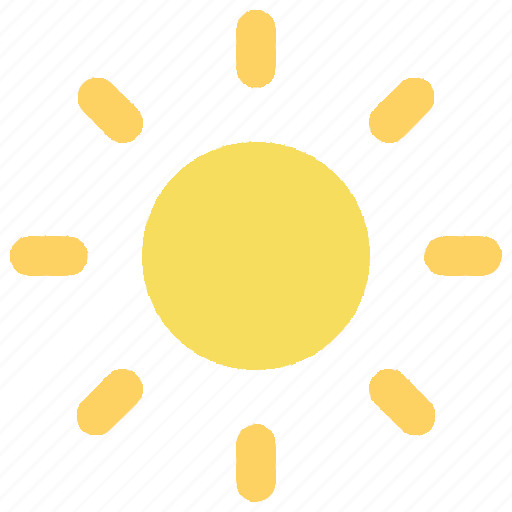
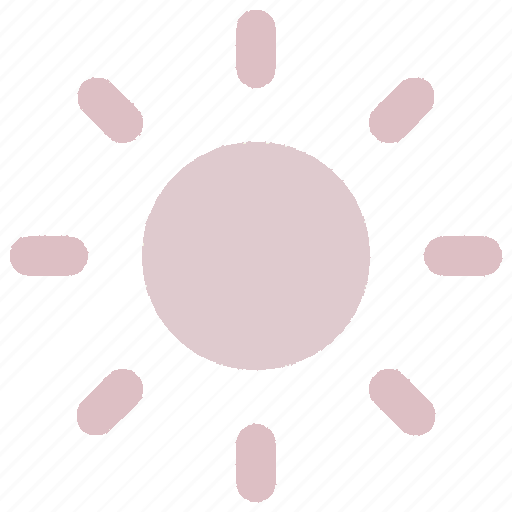
better cv print + updates

diff --git a/client/src/page/about.jsx b/client/src/page/about.jsx
@@ -1,9 +1,8 @@
 import { ManageBody } from '../functions/manageBody';
-import { ManageThemes } from '../functions/manageThemes';
-import { animateApparition } from '../functions/apparition';
-import Main from './components/main';
+import { animateApparition } from '../functions/appearence';
 import { NavLink } from 'react-router-dom';
-import { useEffect, useState } from 'react';
+import { useContext, useEffect } from 'react';
+import themeContext from '../functions/themeContext';
 
 import '../asset/css/about/style.scss';
 import '../asset/css/about/dark-style.scss';
@@ -24,12 +23,7 @@ const About = () => {
         document.title = 'À propos';
     });
 
-    const [privacyImgState, setPrivicyImgState] = useState(privacyImg);
-    const [aboutImgState, setAboutImgState] = useState(aboutImg);
-
-    const states = [setPrivicyImgState, setAboutImgState];
-    const images = [privacyImg, aboutImg];
-    const darkImages = [darkPrivacyImg, darkAboutImg];
+    const { isDarkTheme } = useContext(themeContext);
 
     return (
             <div className="main-container animate">
@@ -38,7 +32,7 @@ const About = () => {
                     <div className="title-container title-container-first-child">
                             <h1 className="title title1">• Politique de confidentialité</h1>
                             <div className="bar first-bar animate"></div>
-                            <img src={ privacyImgState } alt="privacy" draggable="false" />
+                            <img src={ isDarkTheme ? darkPrivacyImg : privacyImg } alt="privacy" draggable="false" />
                         </div>
                         <p className="text-content">Votre vie privée est importante pour moi. La politique d'Adobe PortFolio est de respecter votre vie privée et de se conformer à toutes les lois et réglementations applicables concernant les informations personnelles que je pourrais collecter à votre sujet, y compris sur mon site Web, par l'adresse <NavLink to={"/"}><strong>https://rayanemerlin.com/</strong></NavLink><br/>Cette politique est en vigueur depuis le 7 février 2023 et a été mise à jour pour la dernière fois le 7 février 2023.</p>
                         <h2 className="subtitle">- Me contacter</h2>
@@ -58,7 +52,7 @@ const About = () => {
                     <div className="title-container">
                             <h1 className="title title2">• À propos</h1>
                             <div className="bar second-bar animate"></div>
-                            <img src={ aboutImgState } alt="about_icon" draggable="false" />
+                            <img src={ isDarkTheme ? darkAboutImg : aboutImg } alt="about_icon" draggable="false" />
                         </div>
                         <p className="text-content">Ce site a été entièrement codé par mes soins dans le but de présenter mon parcours, mes projets et mes compétences. <br/> De même, tous les projets présentés ont pu être codés en partie ou entièrement par mes soins. <br/> Le logo a été inspiré du logo officiel d'Adobe Photoshop (plus généralement de l"ensemble des logos de la suite Adobe). Le loader a lui été inspiré du chargement officiel d'Adobe Photoshop 2022.</p>
                     </div>

diff --git a/client/src/page/home.jsx b/client/src/page/home.jsx
@@ -1,13 +1,11 @@
 import { useContext, useEffect, useState, useRef } from 'react';
-import { useReactToPrint } from 'react-to-print';
 import themeContext from '../functions/themeContext';
 
 import { ManageBody } from '../functions/manageBody';
-import { ManageThemes } from '../functions/manageThemes';
 
 import { Project } from '../objects/project';
 import { SchoolCompetence } from '../objects/school_competence';
-import { animateApparition } from '../functions/apparition';
+import { animateApparition } from '../functions/appearence';
 import { ScrollProjects } from '../functions/scrollProjects';
 import { animateCards } from '../functions/3dEffectCard';
 
@@ -46,7 +44,7 @@ const Home = () => {
 
     useEffect(() => { animateApparition() }, []);
 
-    const { isDarkTheme, setIsDarkTheme } = useContext(themeContext);
+    const { isDarkTheme } = useContext(themeContext);
 
     useEffect(() => {
         document.title = 'Accueil';
@@ -108,6 +106,12 @@ const Home = () => {
 
     let frameCvRef = useRef(null);
 
+    let cvPdfIframe = useRef(null);
+    const handlePrintPdf = () => {
+      cvPdfIframe.current.contentWindow.focus();
+      cvPdfIframe.current.contentWindow.print();
+    }
+
     var [cvVisibilityChanged, setCvVisibilityChanged] = useState(false);
     useEffect(() => {
       if (cvContainerIsVisible) {
@@ -130,10 +134,6 @@ const Home = () => {
     }, []);
 
     var [isCvInformationsVisible, setCvInformationsVisible] = useState(false);
-
-    const handlePrintPdf = () => {
-      window.open(cvPdf).print();
-    }
 
     /* let cvImgRef = useRef(null);
     const handlePrintPdf = useReactToPrint({
@@ -176,6 +176,8 @@ const Home = () => {
     return (
       <>
               <article id="main">
+                  {/* On met le CV dans le rendu, caché dans l'HTML pour s'en servir en cas d'impression */}
+                  <iframe ref={cvPdfIframe} src={cvPdf} className="hidden"></iframe>
                   <div className="title t1" id="firstmid">
                     <p>Mes projets</p>
                   </div>

diff --git a/client/src/page/components/main.jsx b/client/src/page/components/main.jsx
@@ -1,5 +1,4 @@
-import { useContext, useEffect } from "react";
-import themeContext from "../../functions/themeContext";
+import { useContext } from "react";
 import FooterComponent from "./footer-component";
 import HeaderComponent from "./header-component";
 import Loader from "./loader";
@@ -20,8 +19,7 @@ import { useLocation } from "react-router-dom";
 
 const Main = ({ children }) => {
   // Si le loader a déjà été chargé on ne l'affiche pas
-  const { wasLoaderShowed, setWasLoaderShowed } = useContext(loaderContext);
-  const { isDarkTheme, setIsDarkTheme } = useContext(themeContext);
+  const { wasLoaderShowed } = useContext(loaderContext);
 
   window.scrollTo(0, 0);
 
@@ -41,8 +39,7 @@ const Main = ({ children }) => {
               <Loader />
             </>
           )}
-          <HeaderComponent /* page={ props.page } images={ props.images } darkImages={ props.darkImages } states={ props.states } */
-          />
+          <HeaderComponent/>
           <Backgrounds />
           <div id="pageContent" /* style={ props.style } */>
             { children }

diff --git a/client/src/page/perso.jsx b/client/src/page/perso.jsx
@@ -1,7 +1,6 @@
 import { ManageBody } from '../functions/manageBody';
 import { useEffect } from 'react';
-import { animateApparition } from '../functions/apparition';
-import Main from './components/main';
+import { animateApparition } from '../functions/appearence';
 
 import '../asset/css/perso/style.scss';
 import '../asset/css/perso/dark-style.scss';

diff --git a/client/src/page/notfound.jsx b/client/src/page/notfound.jsx
@@ -1,7 +1,6 @@
 import { ManageBody } from '../functions/manageBody';
 import { useEffect } from 'react';
-import { animateApparition } from '../functions/apparition';
-import Main from './components/main';
+import { animateApparition } from '../functions/appearence';
 
 const NotFound = () => {
 

diff --git a/client/src/page/course.jsx b/client/src/page/course.jsx
@@ -1,6 +1,5 @@
-import { animateApparition } from '../functions/apparition';
+import { animateApparition } from '../functions/appearence';
 import { ManageBody } from '../functions/manageBody';
-import Main from './components/main';
 import { useEffect } from 'react';
 
 const Course = () => {

diff --git a/client/src/page/contact.jsx b/client/src/page/contact.jsx
@@ -1,4 +1,4 @@
-import { animateApparition } from '../functions/apparition';
+import { animateApparition } from '../functions/appearence';
 import { ManageBody } from '../functions/manageBody';
 import { useEffect, useRef } from 'react';
 

diff --git a/client/todo.md b/client/todo.md
@@ -1,1 +1,3 @@
-## Sur les liens actifs, changer le style du lien pour le mettre en gras
+## Sur les liens actifs, changer le style du lien pour le mettre d'une couleur différente
+
+## Améliorer considérablement les animations d'apparition avec React-Intersection-Observer
